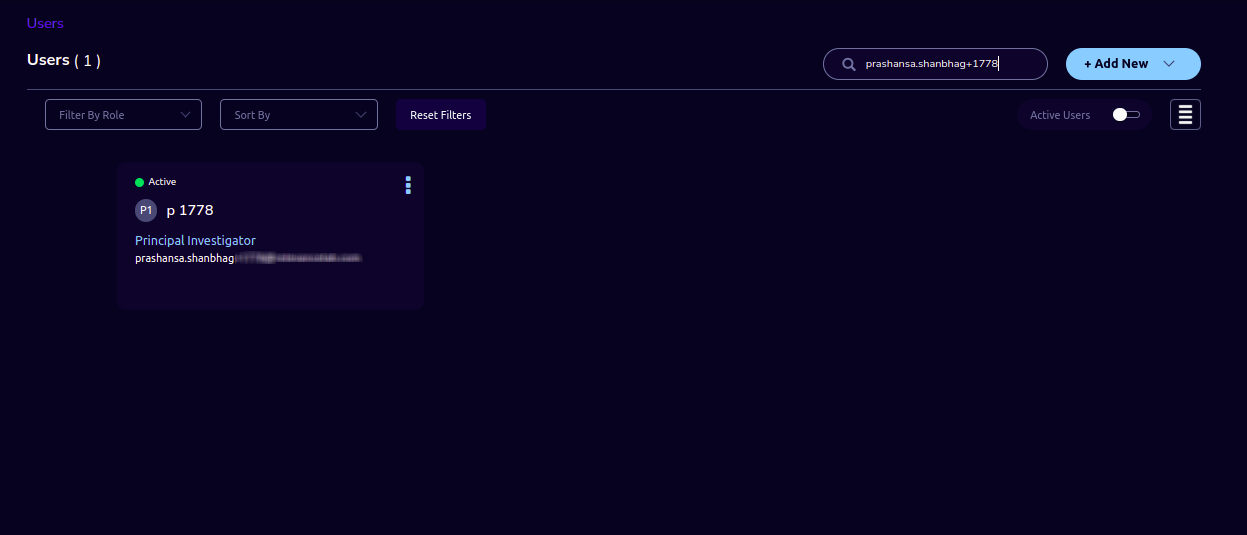
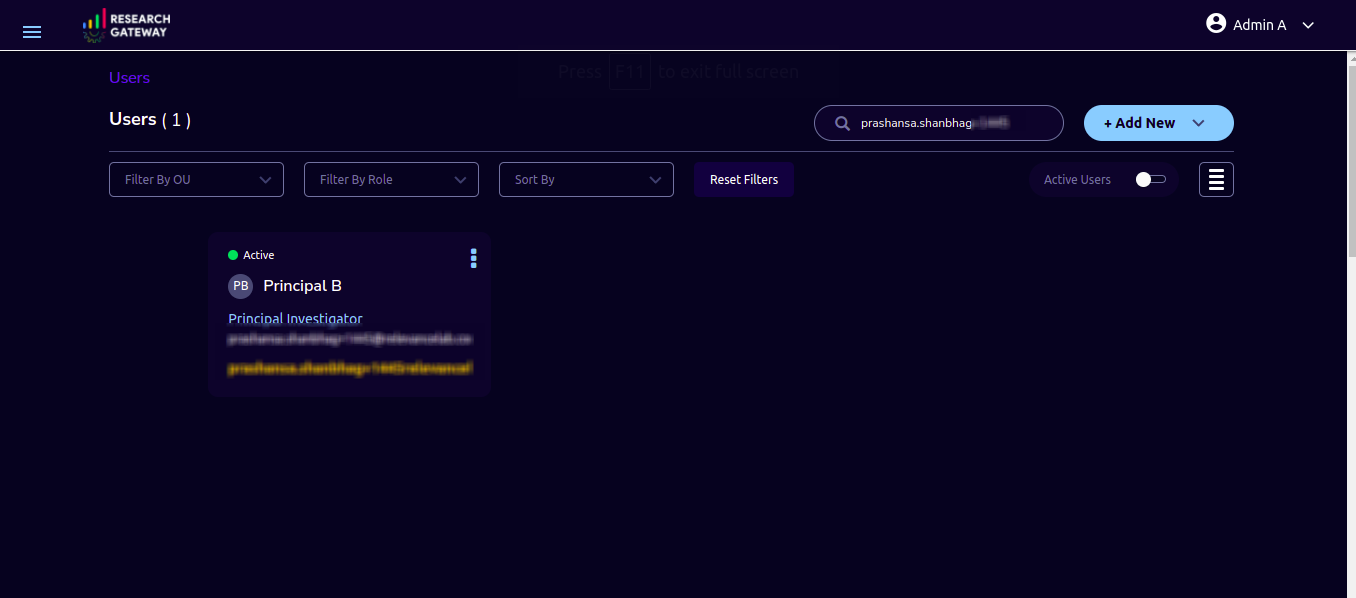
Edit User Information Changes - 1.16.0

diff --git a/source/Features.rst b/source/Features.rst
@@ -290,6 +290,41 @@ There is a contextual menu which is at the right side of the card. Once clicked 
 
 .. note:: The "Resend verification mail" option is available only if the user is inactive.
 
+**Edit**
+
+There is a contextual menu which is at the right side of the card. Once clicked on that you can see the actions one by one. Through the "Edit" option you can edit User Information. On successful completion, you can see the green color toaster message. 
+
+.. image:: images/Administrator_User_EditUser.png
+
+.. image:: images/Admin_User_EditUserForm.png
+
+Following details are editable
+
+.. list-table::  
+   :widths: 90, 90  
+   :header-rows: 1 
+
+   * - Field 
+     - Details 
+   * - First Name 
+     - <Please enter first name of the user> 
+   * - Last Name 
+     - <Please enter last name of the user>  
+   * - Organizational Unit 
+     - <Select a organizational unit in the drop-down list> 
+   * - Tags 
+     - <Add tags to associate with the user> 
+
+.. note:: 
+   a. If the user is unassigned, Organizational unit field will be enabled and can be assigned to OU. 
+   b. If the user is already assigned Organization unit field will be disabled. 
+   c. Only if any of the First Name, Last Name, Organizational Unit and tags fields are edited Edit User Button will be enabled. 
+
+
+Click on Edit User button and edited user information will be visible on user card. Once user clicks on Edit User button they will be able to see green colour toaster message. 
+
+.. image:: images/Admin_User_EditUser_SuccessMessage.png
+
 Audit Trail
 ^^^^^^^^^^^
 
@@ -761,6 +796,35 @@ There is a contextual menu which is at the right side of the card. Once clicked 
 .. image:: images/Principal_Users_ResendVerificationEmail.png
 
 .. note:: The "Resend verification mail" option is available only if the user is inactive.
+
+**Edit**
+
+There is a contextual menu which is at the right side of the card. Once clicked on that you can see the actions one by one. Through the "Edit" option you can edit User Information. On successful completion, you can see the green color toaster message. 
+
+.. image:: images/Principal_Users_EditAction.png
+
+.. image:: images/Principal_Users_EditUserForm.png
+
+Following details are editable
+
+.. list-table::  
+   :widths: 90, 90  
+   :header-rows: 1 
+
+   * - Field 
+     - Details 
+   * - First Name 
+     - <Please enter first name of the user> 
+   * - Last Name 
+     - <Please enter last name of the user>  
+   * - Tags 
+     - <Add tags to associate with the user> 
+
+.. note:: Only if any of the First Name, Last Name and tags fields are edited Edit User Button will be enabled. 
+
+Click on Edit User button and edited user information will be visible on user card. Once user clicks on Edit User button they will be able to see green colour toaster message. 
+
+.. image:: images/Principal_User_EditUser_SuccessMessage.png
 
 How to add researchers to existing project 
 ^^^^^^^^^^^^^^^^^^^^^^^^^^^^^^^^^^^^^^^^^^

diff --git a/source/PCluster.rst b/source/PCluster.rst
@@ -33,9 +33,9 @@ Parameters
    * - HeadNodeSubnetId
      - Select the Subnet you want your Head Node to launch in from the drop-down list. You must select a public subnet.
    * - FileSystemType
-     - Choose the fileSystem type EFS/FSxForLustre (provisioned earlier) which you want to mount on headnode leave it as NONE if don't want to mount any filesystem.
+     - Choose the fileSystem type EFS/FSxForLustre/EBS (provisioned earlier) which you want to mount on headnode leave it as NONE if don't want to mount any filesystem.
    * - FileSystemId
-     - Enter the File System Id of the EFS/FSxForLustre file system which you want to use. e.g. fs-12345678. Leave this field to default if you do not want to use any file system
+     - Enter the File System Id of the EFS/FSxForLustre/EBS file system which you want to use. e.g. fs-12345678. Leave this field to default if you do not want to use any file system
    * - Scheduler
      - Select a Cluster scheduler from the drop-down list 
    * - ComputeNodeInstanceType 
